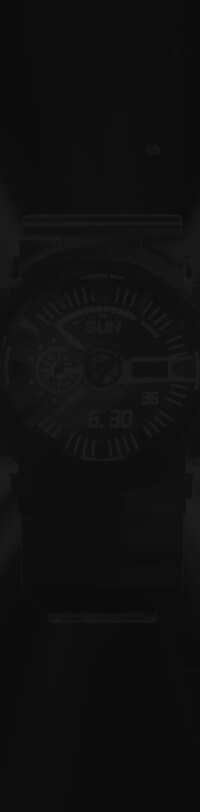
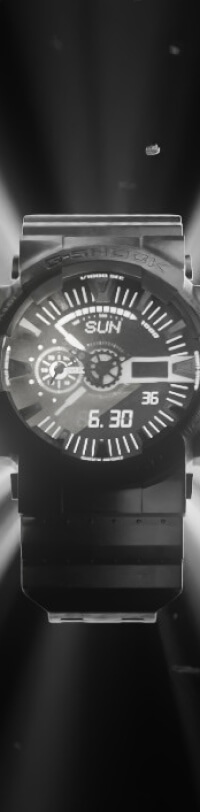
Replaced modal-bg images with another ones and added linear-gradient to bg-image

diff --git a/src/css/header.css b/src/css/header.css
@@ -180,7 +180,12 @@ up to 1280px*/
   width: 200px;
   transform: translateX(100%);
   background-color: var(--main);
-  background-image: url(/img/modal-bg/modal-bg-mobile.jpg);
+  background-image: linear-gradient(
+      to bottom,
+      rgba(12, 12, 12, 0.92),
+      rgba(12, 12, 12, 0.92)
+    ),
+    url(/img/modal-bg/modal-bg-mobile.jpg);
   background-repeat: no-repeat;
   background-position: center;
   background-size: cover;
@@ -247,7 +252,12 @@ up to 1280px*/
 @media only screen and (min-width: 768px) {
   .modal-menu {
     width: 330px;
-    background-image: url(/img/modal-bg/modal-bg-tablet.jpg);
+    background-image: linear-gradient(
+        to bottom,
+        rgba(12, 12, 12, 0.92),
+        rgba(12, 12, 12, 0.92)
+      ),
+      url(/img/modal-bg/modal-bg-tablet.jpg);
   }
 
   .modal-menu-container {
@@ -270,19 +280,29 @@ up to 1280px*/
   }
 }
 
-@media (min-device-pixel-ratio: 2) {
-  .modal-menu {
-    background-image: url(/img/modal-bg/modal-bg-mobile@2x.jpg);
-  }
-  @media screen and (min-width: 768px) {
-    .modal-menu {
-      background-image: url(/img/modal-bg/modal-bg-tablet@2x.jpg);
-    }
-  }
-}
-
 @media only screen and (min-width: 1280px) {
   .modal-menu {
     display: none;
+  }
+}
+
+@media (min-device-pixel-ratio: 2) {
+  .modal-menu {
+    background-image: linear-gradient(
+        to bottom,
+        rgba(12, 12, 12, 0.92),
+        rgba(12, 12, 12, 0.92)
+      ),
+      url(/img/modal-bg/modal-bg-mobile@2x.jpg);
+  }
+  @media screen and (min-width: 768px) {
+    .modal-menu {
+      background-image: linear-gradient(
+          to bottom,
+          rgba(12, 12, 12, 0.92),
+          rgba(12, 12, 12, 0.92)
+        ),
+        url(/img/modal-bg/modal-bg-tablet@2x.jpg);
+    }
   }
 }
